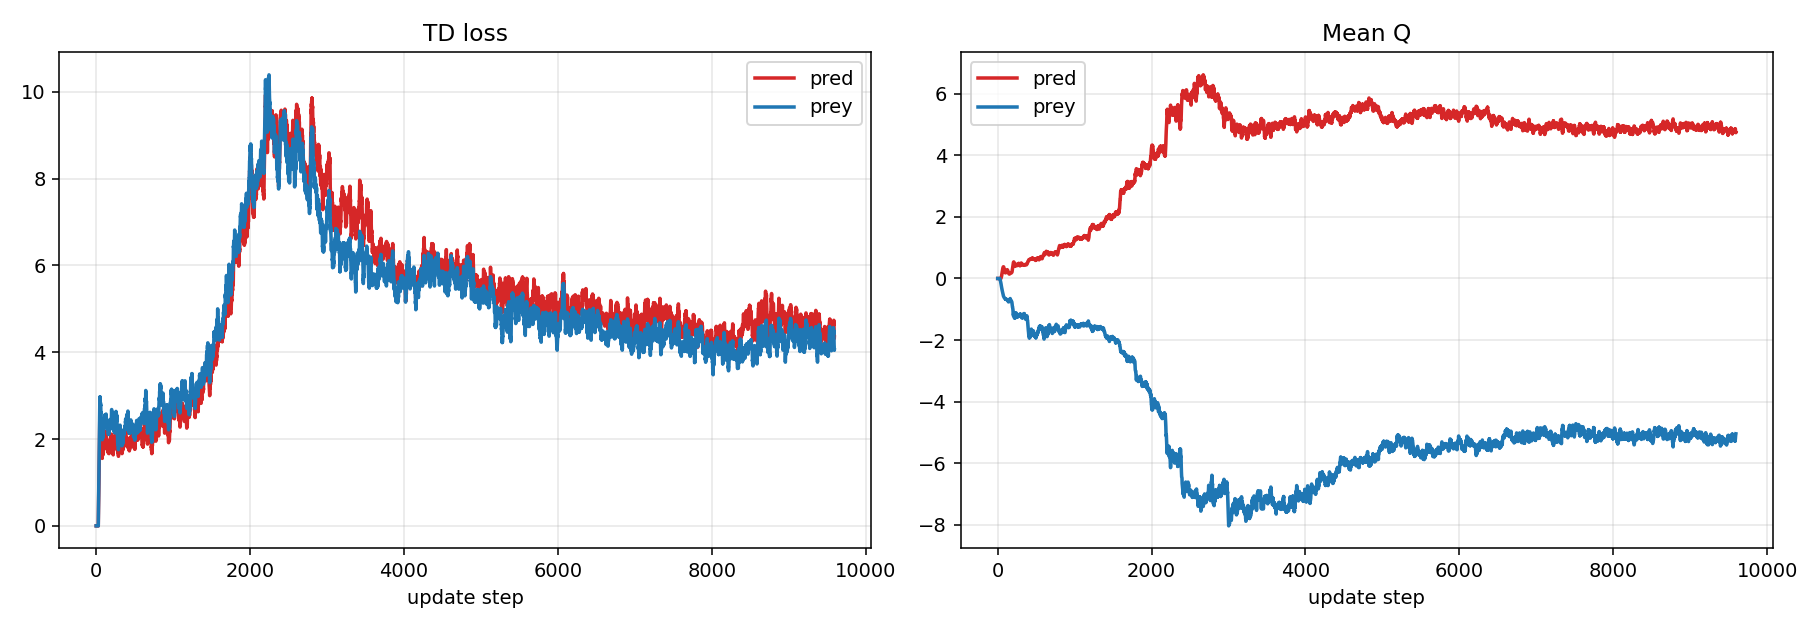
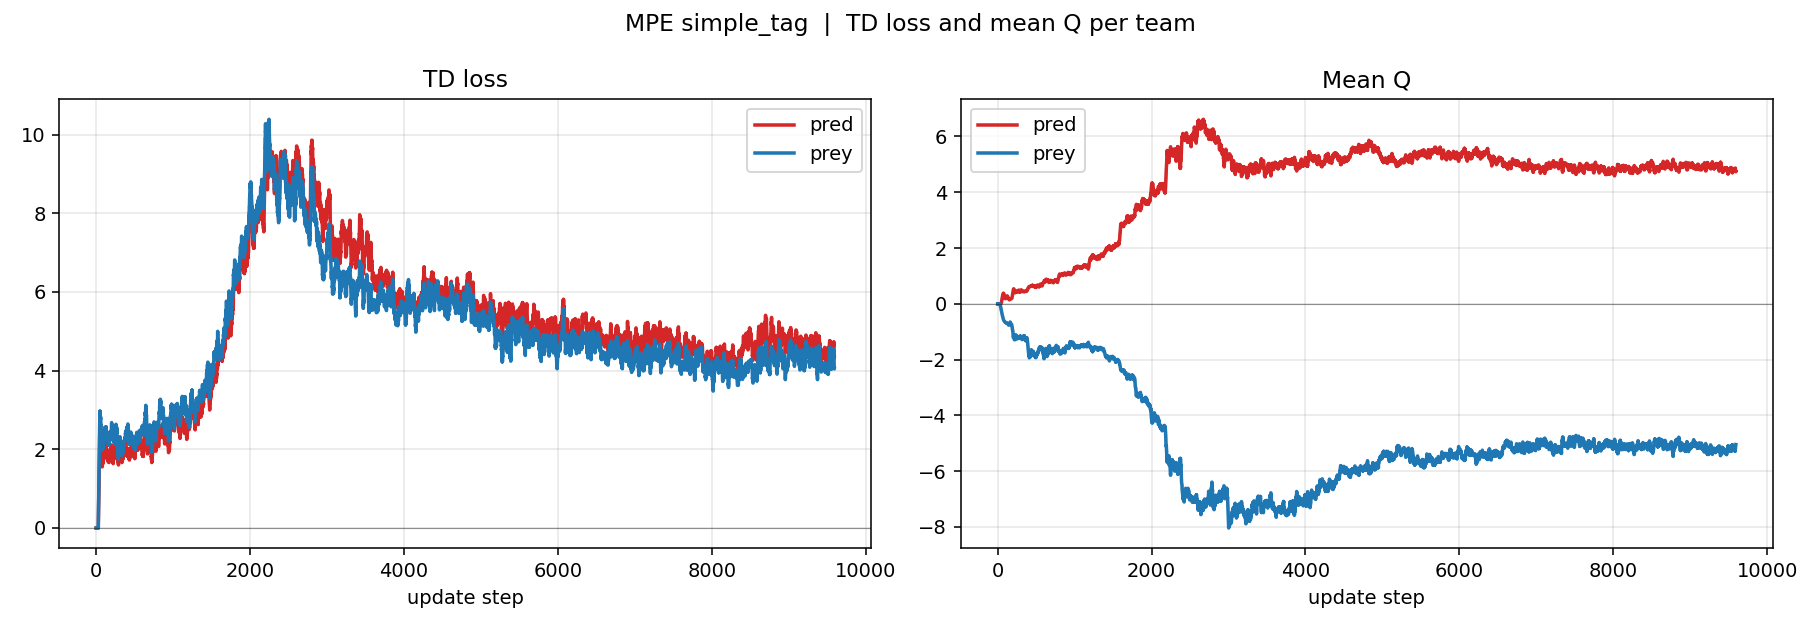
Fix train_curves: replace broken episode-length panel with greedy test return
returned_episode_lengths is non-zero only at terminal steps, so
naive .mean() over the rollout collapses to 1.0 for fixed-horizon
episodes — both teams overlapped at 1.0 and the red line was hidden.
Replace panel 2 with per-team greedy test return (the real eval
signal: pred +14 -> peak +103 around update 2000 -> settle +33;
prey -247 -> trough -175 -> recover -49).

diff --git a/src/plot_metrics.py b/src/plot_metrics.py
@@ -17,6 +17,18 @@ def smooth(y, w=21):
     return sm.mean(0), sm.std(0)
 
 
+def test_eval_points(y):
+    """Test metrics are step-held between evals; return just the (x, y) where value changes."""
+    y = np.asarray(y)
+    if y.ndim == 2:
+        y = y[0]
+    dy = np.diff(y, prepend=y[0] - 1)
+    idx = np.where(np.abs(dy) > 1e-9)[0]
+    if len(idx) == 0:
+        idx = np.array([0, len(y) - 1])
+    return idx, y[idx]
+
+
 def load(npz_path):
     d = np.load(npz_path)
     return {k: d[k] for k in d.files}
@@ -31,31 +43,41 @@ def main():
 
     os.makedirs(args.out, exist_ok=True)
     m = load(args.npz)
-    # keys look like 'pred__returned_episode_returns', 'test__pred__returned_episode_returns'
-    # shape: (NUM_SEEDS, NUM_UPDATES) or scalar metrics
 
+    # --- Panel 1: smoothed train return (per-step-averaged rollout signal) ---
+    # --- Panel 2: greedy test return per evaluation (the actual eval signal) ---
     fig, axes = plt.subplots(1, 2, figsize=(13, 4.5))
 
-    # train-time per-team mean return
-    for ax, key_suffix, title in [
-        (axes[0], "returned_episode_returns", "Train return (per-team mean)"),
-        (axes[1], "returned_episode_lengths", "Episode length"),
-    ]:
-        for team, color in [("pred", "tab:red"), ("prey", "tab:blue")]:
-            key = f"{team}__{key_suffix}"
-            if key not in m:
-                continue
-            y = np.asarray(m[key])
-            if y.ndim == 1:
-                y = y[None]
-            mu, sd = smooth(y, w=args.smooth)
-            x = np.arange(len(mu))
-            ax.plot(x, mu, color=color, label=team, lw=1.8)
-            ax.fill_between(x, mu - sd, mu + sd, color=color, alpha=0.2)
-        ax.set_xlabel("update step")
-        ax.set_title(title)
-        ax.legend()
-        ax.grid(alpha=0.3)
+    ax = axes[0]
+    for team, color in [("pred", "tab:red"), ("prey", "tab:blue")]:
+        key = f"{team}__returned_episode_returns"
+        if key not in m:
+            continue
+        y = np.asarray(m[key])
+        if y.ndim == 1:
+            y = y[None]
+        mu, sd = smooth(y, w=args.smooth)
+        x = np.arange(len(mu))
+        ax.plot(x, mu, color=color, label=team, lw=1.8)
+        ax.fill_between(x, mu - sd, mu + sd, color=color, alpha=0.2)
+    ax.axhline(0, color="k", lw=0.6, alpha=0.4)
+    ax.set_xlabel("update step")
+    ax.set_title("Train return (rollout, step-averaged)")
+    ax.legend()
+    ax.grid(alpha=0.3)
+
+    ax = axes[1]
+    for team, color in [("pred", "tab:red"), ("prey", "tab:blue")]:
+        key = f"test__{team}__returned_episode_returns"
+        if key not in m:
+            continue
+        idx, vals = test_eval_points(m[key])
+        ax.plot(idx, vals, color=color, label=team, lw=1.8, marker="o", ms=3)
+    ax.axhline(0, color="k", lw=0.6, alpha=0.4)
+    ax.set_xlabel("update step")
+    ax.set_title("Greedy test return (per 30-step eval episode)")
+    ax.legend()
+    ax.grid(alpha=0.3)
 
     fig.suptitle("MPE simple_tag  |  independent two-team IQL (co-training)")
     fig.tight_layout()
@@ -80,11 +102,13 @@ def main():
             x = np.arange(len(mu))
             ax.plot(x, mu, color=color, label=team, lw=1.8)
             ax.fill_between(x, mu - sd, mu + sd, color=color, alpha=0.2)
+        ax.axhline(0, color="k", lw=0.6, alpha=0.4)
         ax.set_xlabel("update step")
         ax.set_title(title)
         ax.legend()
         ax.grid(alpha=0.3)
 
+    fig2.suptitle("MPE simple_tag  |  TD loss and mean Q per team")
     fig2.tight_layout()
     out_path2 = os.path.join(args.out, "loss_q.png")
     fig2.savefig(out_path2, dpi=140)
